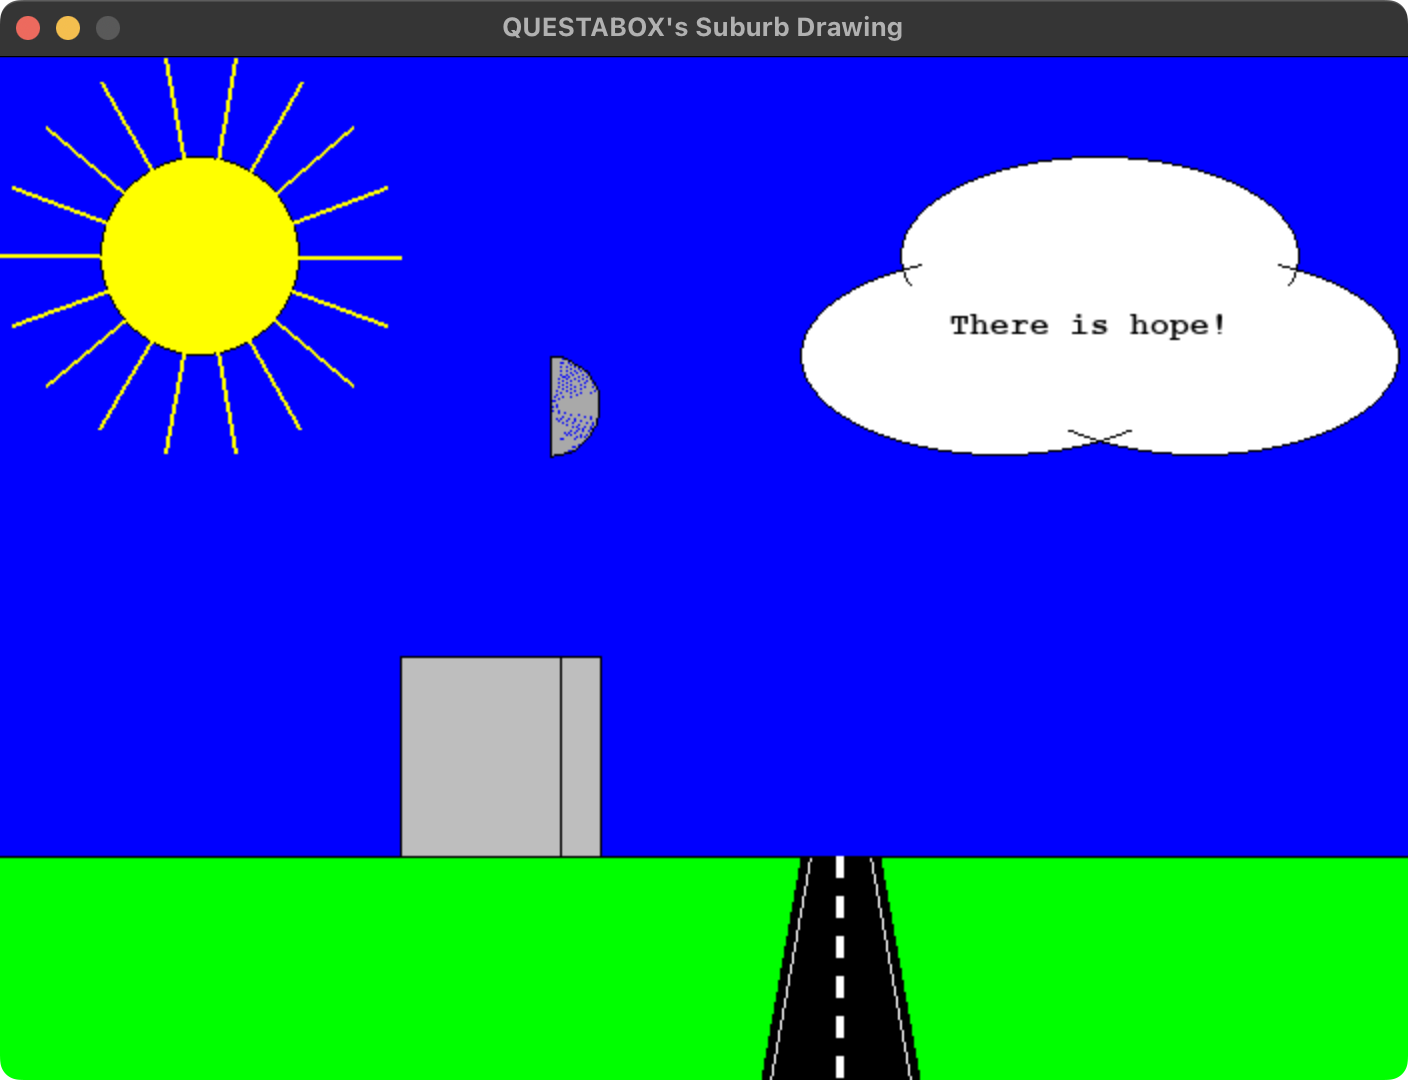
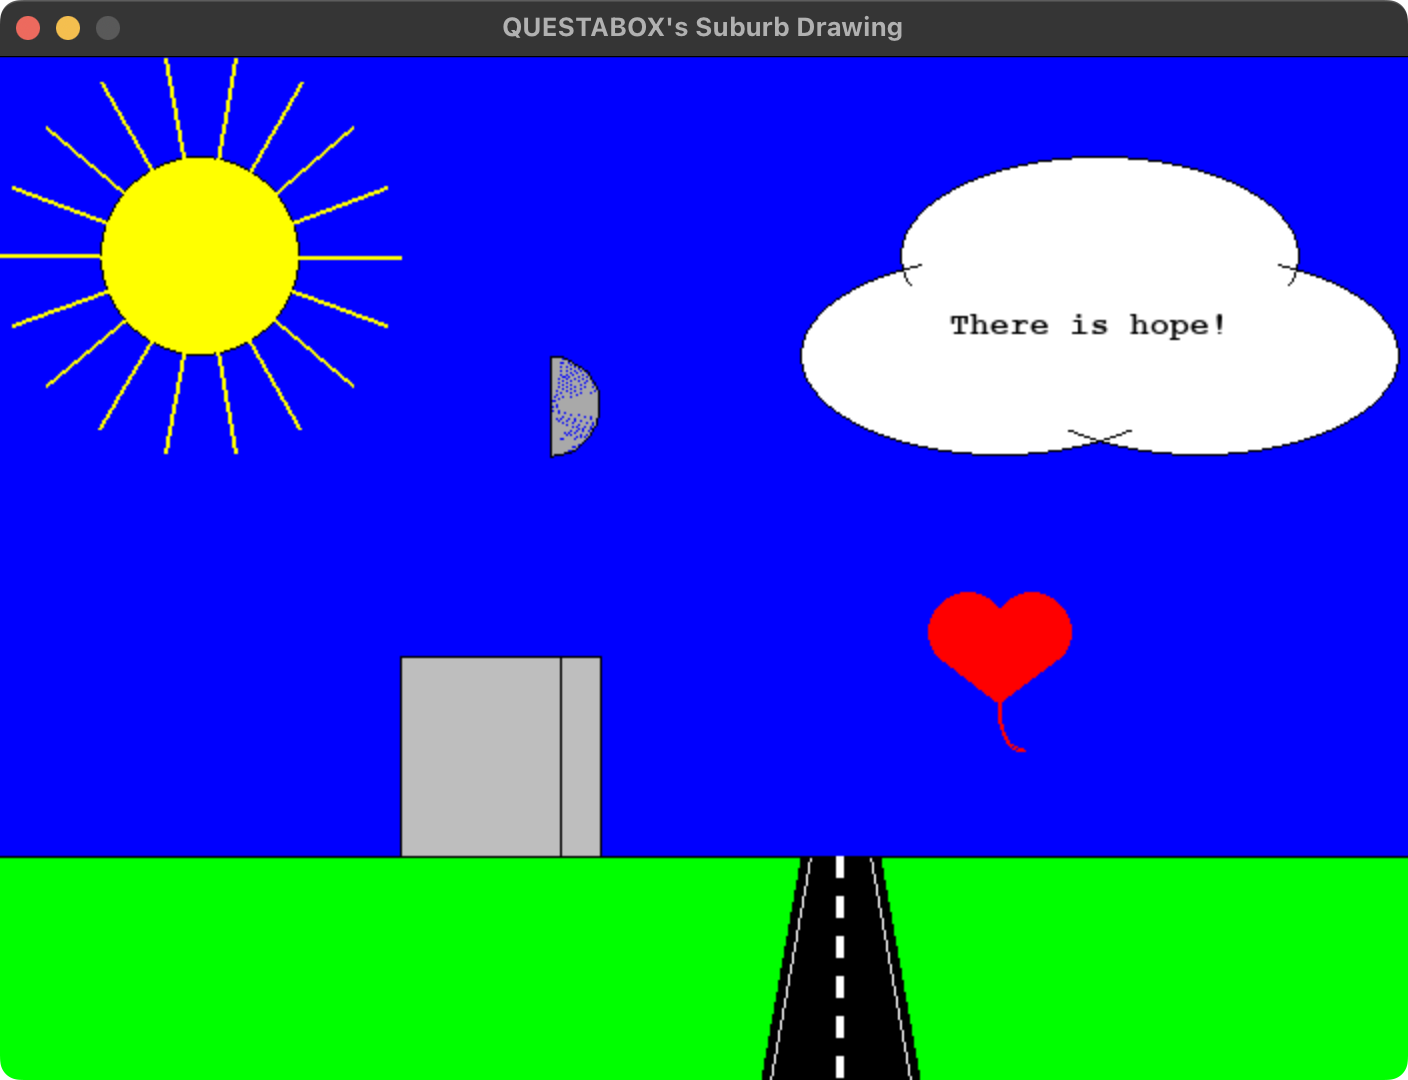
added heart balloon to drawing, mixed-modularized

Changed region(s): [[0.6562, 0.55, 0.7812, 0.6722]]

diff --git a/heart.py b/heart.py
@@ -1,0 +1,49 @@
+import pygame
+# import sys
+import canvas
+
+pygame.init()
+
+BLUE = pygame.Color("blue")
+RED = pygame.Color("red")
+ 
+# size = (100, 100)
+# screen = pygame.display.set_mode(size)
+# clock = pygame.time.Clock()
+def draw(x, y):
+# position = (50, 50) # define x- and y-coordinates
+# multiple = 4 # define multiple (0-5)
+    position = (x, y) # define x- and y-coordinates
+    multiple = 4 # define multiple (0-5)
+
+# while True:
+#     for action in pygame.event.get():
+#         if action.type == pygame.QUIT:
+#             pygame.quit()
+#             sys.exit()
+    # screen.fill(BLACK)
+    # --- Drawing code
+    # Utilizing Pythagorean triple 3:4:5 to mitigate errors
+    # Doubling multiples to mitigate errors, as well
+    # Polygon Corners
+    p_top = (position[0], position[1]-3*2*multiple)
+    p_right = (position[0]+4*2*multiple, position[1])
+    p_bottom = (position[0], position[1]+3*2*multiple)
+    p_left = (position[0]-4*2*multiple, position[1])
+    # Circle Center
+    c_top_left = ((p_left[0]+p_top[0])/2, (p_left[1]+p_top[1])/2)
+    c_top_right = ((p_top[0]+p_right[0])/2, (p_top[1]+p_right[1])/2)
+    # Circle Radius
+    r = 5*2*multiple*1/2
+    # Draw Circles
+    pygame.draw.circle(canvas.screen, RED, c_top_left, radius=r, width=0)
+    pygame.draw.circle(canvas.screen, RED, c_top_right, radius=r, width=0)
+    # Cut Each Circle into Semi-Circles
+    # (includes corrections to any remaining errors)
+    pygame.draw.polygon(canvas.screen, BLUE, [(p_top[0]-1, p_top[1]), (p_right[0]-1, p_right[1]-1), (p_bottom[0]-1, p_bottom[1]+6*multiple), (p_left[0], p_left[1]-1)], width=0)
+    # Draw Polygon
+    # (includes corrections to any remaining errors)
+    pygame.draw.polygon(canvas.screen, RED, [(p_top[0]-1, p_top[1]), (p_right[0]-1, p_right[1]-1), (p_bottom[0]-1, p_bottom[1]-1), (p_left[0], p_left[1]-1)], width=0)
+    # ----------------
+    # pygame.display.flip()
+    # clock.tick(60)

diff --git a/suburb.py b/suburb.py
@@ -1,5 +1,6 @@
 import pygame
 import sys
+import heart
 from math import pi, cos, sin
 
 pygame.init()
@@ -11,6 +12,7 @@ YELLOW = pygame.Color("yellow")
 WHITE = pygame.Color("white")
 DARKGRAY = pygame.Color("darkgray")
 BLACK = pygame.Color("black")
+RED = pygame.Color("red")
  
 size = (704, 512)
 screen = pygame.display.set_mode(size)
@@ -56,5 +58,7 @@ while True:
     font = pygame.font.SysFont('Courier New', 16, bold=True, italic=False)
     text = font.render("There is hope!", True, BLACK)
     screen.blit(text, (475, 125))
+    heart.draw(500, 300) # balloon
+    pygame.draw.arc(screen, RED, (499, 298, 25, 50), 180*pi/180, 275*pi/180, width=2) # balloon string
     pygame.display.flip()
     clock.tick(60)
